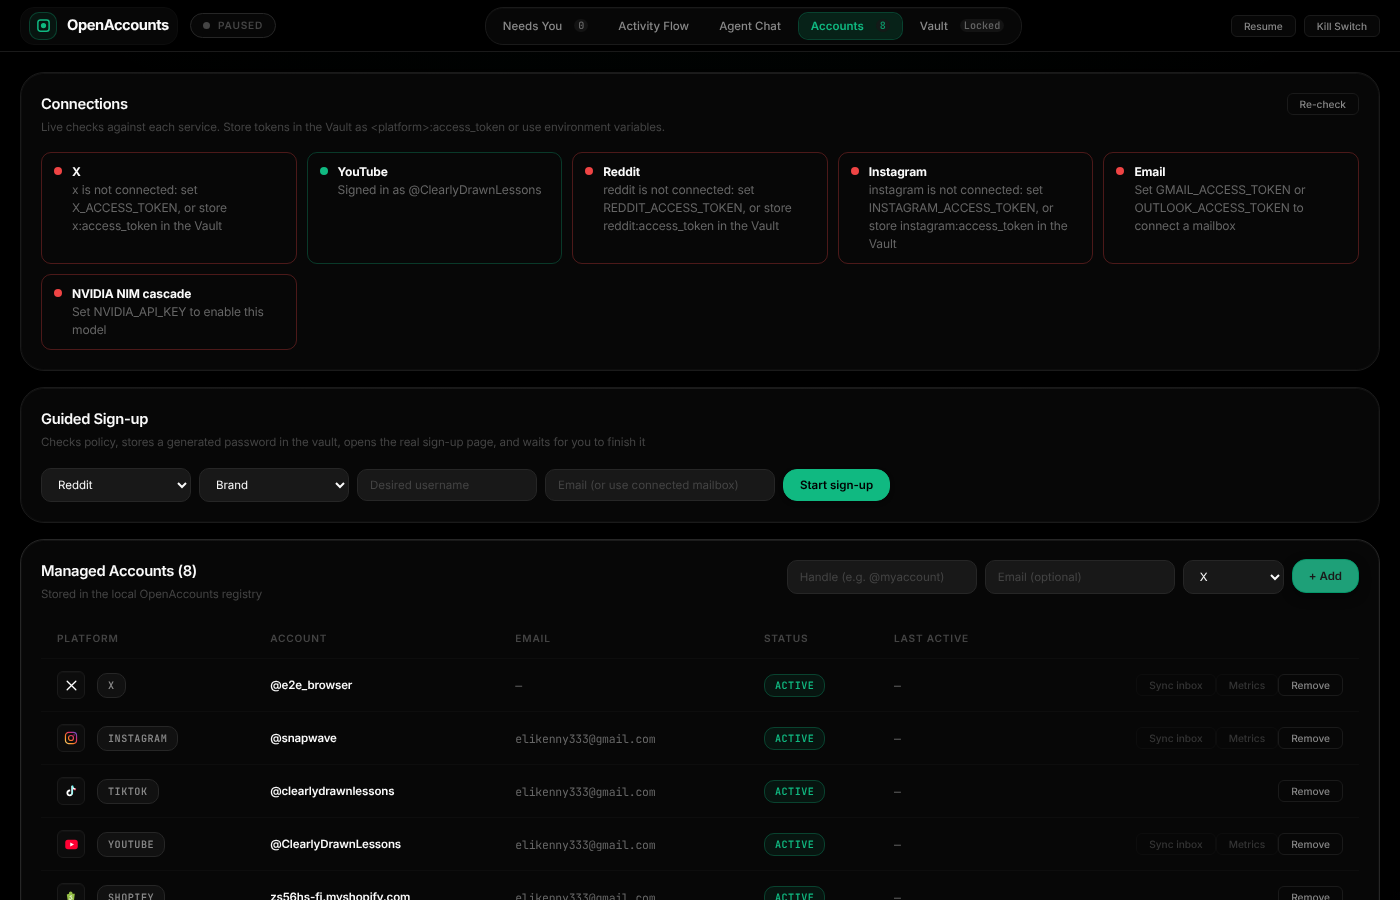
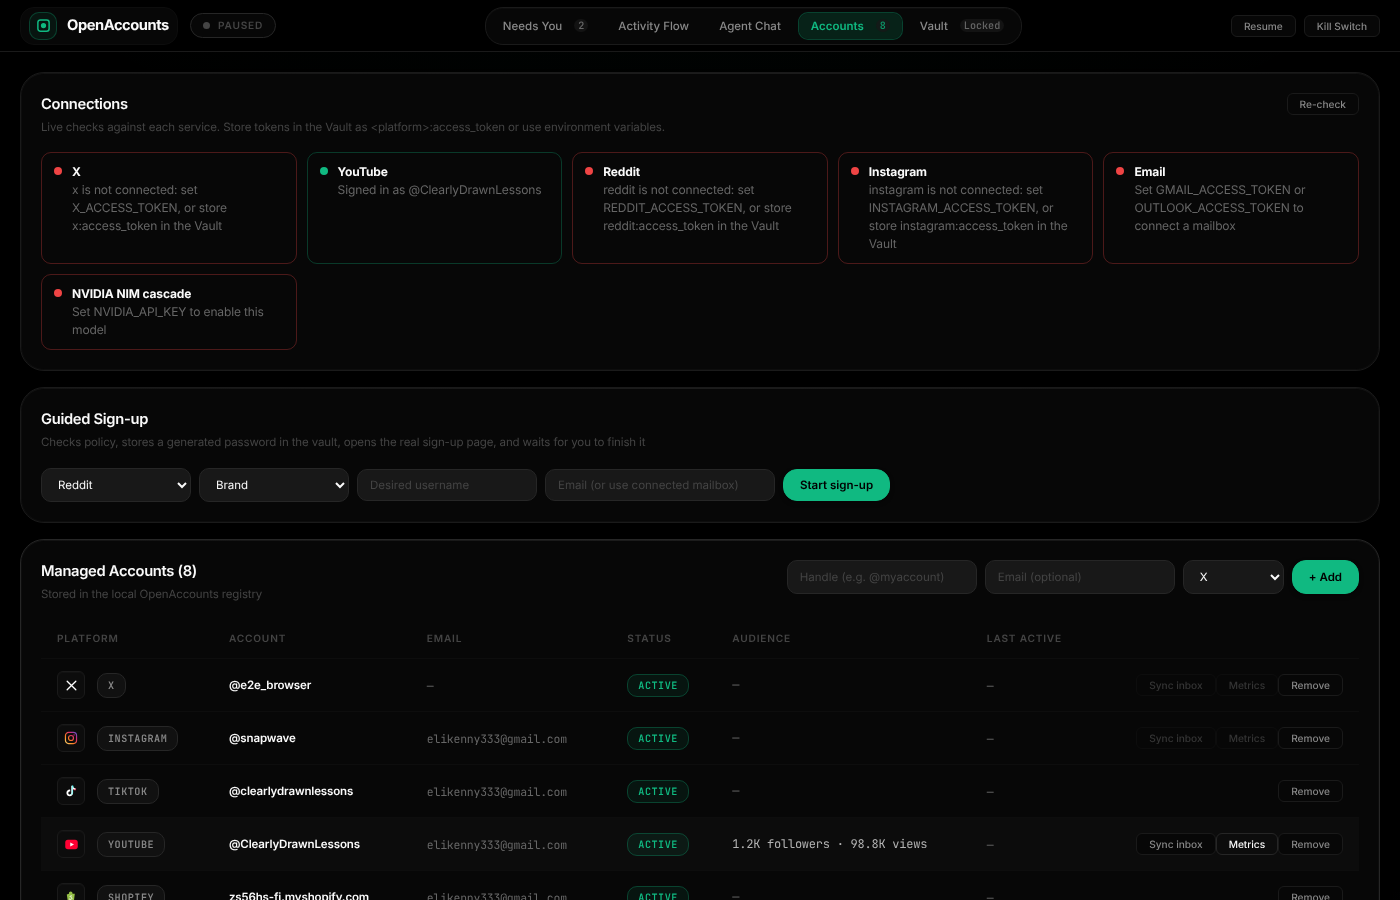
Show live audience metrics on the Accounts table
The Metrics button refreshed data the UI never displayed. Accounts now
show the latest API-sourced followers and views per account, and the
browser e2e verifies a refresh appears in the table.

Claude-Session: https://claude.ai/code/session_01LijnYgUkorY4dsLBHF3cJ2

diff --git a/apps/desktop/angular/src/app/services/tauri.service.ts b/apps/desktop/angular/src/app/services/tauri.service.ts
@@ -186,6 +186,17 @@ export interface LmProfile {
   temperature?: number | null;
 }
 
+export interface AccountMetric {
+  account_id: string;
+  platform: string;
+  views: number;
+  followers?: number | null;
+  posts?: number | null;
+  likes?: number | null;
+  is_verified_by_api: boolean;
+  captured_at: string;
+}
+
 export interface AgentChatReply {
   reply: string;
   model: string;
@@ -234,6 +245,7 @@ export class TauriService {
   vaultSecrets = signal<SecretMetadata[]>([]);
   connections = signal<ConnectionStatus[]>([]);
   lmProfiles = signal<LmProfile[]>([]);
+  metrics = signal<AccountMetric[]>([]);
   chatProfile = signal<string>('nim-cascade');
   inbox = signal<InboxMessage[]>([]);
   registrations = signal<RegistrationReport[]>([]);
@@ -248,6 +260,14 @@ export class TauriService {
   inboxNeedingReview = computed(() =>
     this.inbox().filter((m) => (m.status === 'New' || m.status === 'PendingApproval') && (m.requires_human_approval || !!m.drafted_reply))
   );
+  latestMetrics = computed(() => {
+    const map = new Map<string, AccountMetric>();
+    for (const m of this.metrics()) {
+      const current = map.get(m.account_id);
+      if (!current || current.captured_at < m.captured_at) map.set(m.account_id, m);
+    }
+    return map;
+  });
   connectedPlatforms = computed(() => new Set(this.connections().filter((c) => c.kind === 'social' && c.connected).map((c) => c.id)));
   justDidItems = computed(() => this.flow().just_did);
   activelyDoingItems = computed(() => this.flow().actively_doing);
@@ -347,6 +367,7 @@ export class TauriService {
         this.refreshVault(),
         this.refreshConnections(false),
         this.refreshProfiles(),
+        this.load<AccountMetric[]>('list_social_analytics', (v) => this.setIfChanged(this.metrics, v)),
       ]);
     } finally {
       this.loading.set(false);
@@ -447,7 +468,11 @@ export class TauriService {
   }
 
   refreshMetrics(accountId: string) {
-    return this.withBusy(`metrics-${accountId}`, () => this.act('refresh_social_metrics', { account_id: accountId }));
+    return this.withBusy(`metrics-${accountId}`, () =>
+      this.act('refresh_social_metrics', { account_id: accountId }, () =>
+        this.load<AccountMetric[]>('list_social_analytics', (v) => this.setIfChanged(this.metrics, v))
+      )
+    );
   }
 
   deleteAccount(accountId: string) {

diff --git a/apps/desktop/angular/src/app/app.html b/apps/desktop/angular/src/app/app.html
@@ -747,6 +747,7 @@
                 <th>Account</th>
                 <th>Email</th>
                 <th>Status</th>
+                <th>Audience</th>
                 <th>Last Active</th>
                 <th></th>
               </tr>
@@ -762,6 +763,12 @@
                 <td><strong>{{ acc.username }}</strong></td>
                 <td class="mono" style="color: var(--text-muted);">{{ acc.email || '—' }}</td>
                 <td><span class="badge" [class.accent]="acc.status === 'active'">{{ acc.status | uppercase }}</span></td>
+                <td class="mono audience-cell">
+                  <ng-container *ngIf="tauri.latestMetrics().get(acc.id) as m; else noMetrics">
+                    <span [title]="'Captured ' + formatTime(m.captured_at)">{{ compact(m.followers) }} followers · {{ compact(m.views) }} views</span>
+                  </ng-container>
+                  <ng-template #noMetrics><span style="color: var(--text-muted);">—</span></ng-template>
+                </td>
                 <td class="mono" style="color: var(--text-muted);">{{ formatTime(acc.last_active) }}</td>
                 <td style="text-align: right; white-space: nowrap;">
                   <ng-container *ngIf="supportsApi(acc)">

diff --git a/apps/desktop/angular/src/app/app.ts b/apps/desktop/angular/src/app/app.ts
@@ -116,6 +116,13 @@ export class App {
     return API_PLATFORMS.has(acc.platform);
   }
 
+  compact(n?: number | null): string {
+    if (n === null || n === undefined) return '—';
+    if (n >= 1_000_000) return `${(n / 1_000_000).toFixed(1)}M`;
+    if (n >= 1_000) return `${(n / 1_000).toFixed(1)}K`;
+    return `${n}`;
+  }
+
   draftFor(msg: InboxMessage): string {
     return this.replyDrafts()[msg.message_id] ?? msg.drafted_reply ?? '';
   }

diff --git a/apps/desktop/angular/src/app/app.scss b/apps/desktop/angular/src/app/app.scss
@@ -1786,3 +1786,8 @@
     width: auto;
   }
 }
+
+.audience-cell {
+  font-size: 12px;
+  white-space: nowrap;
+}
